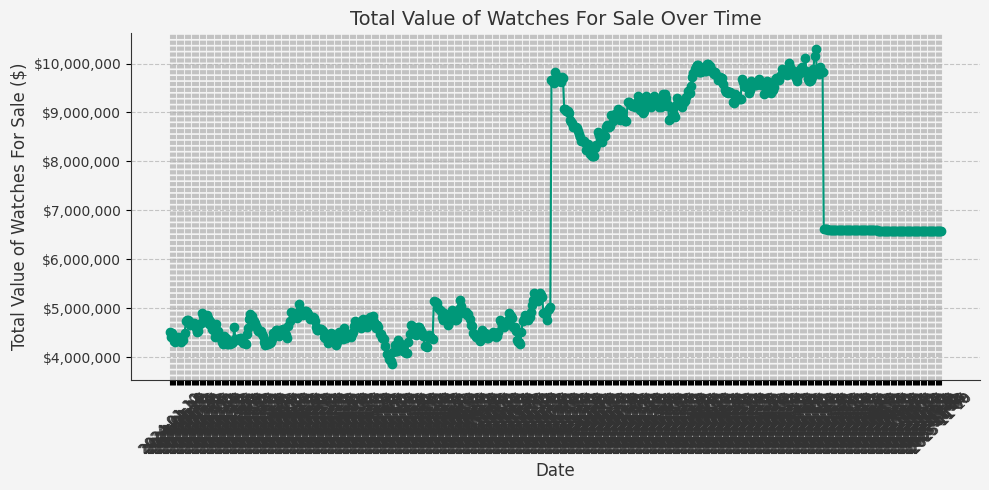
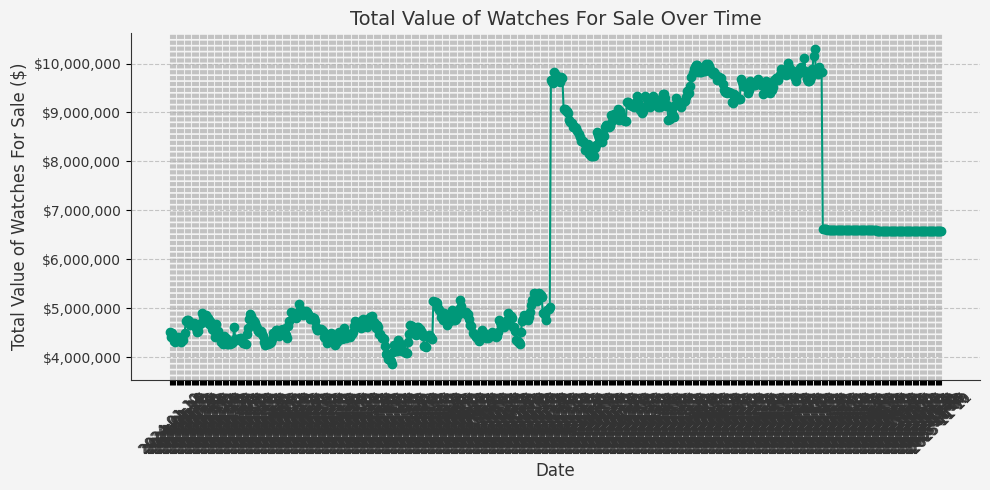
Update docs, portfolio image and portfolio statistics

diff --git a/docs/index.html b/docs/index.html
@@ -54,7 +54,7 @@
     </style>
 </head>
 <body>
-    <h1>Watch Data Report - 2025-11-10</h1>
+    <h1>Watch Data Report - 2025-11-11</h1>
     <div class="stats">
         <h3>Summary Statistics</h3>
         <p>Value of sold Watches: $0.00</p>
@@ -86,24 +86,39 @@
   </thead>
   <tbody>
     <tr>
-      <td>1973 Rolex Red Submariner 1680 Mk V Dial With Service Papers</td>
+      <td>1970 Rolex Two-Tone Gmt-Master 1675 Brown Nipple Dial With Box And Service Papers</td>
       <td>None</td>
-      <td><a href="https://tropicalwatch.com/watches/1973-rolex-red-submariner-1680-mk-v-dial-with-service-papers/jdst" target="_blank">Link</a></td>
+      <td><a href="https://tropicalwatch.com/watches/1970-rolex-two-tone-gmt-master-1675-brown-nipple-dial-with-box-and-service-papers/qj9y" target="_blank">Link</a></td>
     </tr>
     <tr>
-      <td>1969 Rolex Submariner 1680 Mk 2 Tropical Dial</td>
+      <td>1999 Rolex Daytona 16520 Black Dial</td>
       <td>None</td>
-      <td><a href="https://tropicalwatch.com/watches/1969-rolex-submariner-1680-mk-2-tropical-dial/lwdm" target="_blank">Link</a></td>
+      <td><a href="https://tropicalwatch.com/watches/1999-rolex-daytona-16520-black-dial/eskb" target="_blank">Link</a></td>
     </tr>
     <tr>
-      <td>1968 Rolex 18K Yg Oyster Perpetual Grey Dial</td>
+      <td>1972 Rolex 18K Yg Day-Date 1803 Champaign Minute Track Dial With Box & Papers</td>
       <td>None</td>
-      <td><a href="https://tropicalwatch.com/watches/1968-rolex-18k-yg-oyster-perpetual-grey-dial/2unp" target="_blank">Link</a></td>
+      <td><a href="https://tropicalwatch.com/watches/1972-rolex-18k-yg-day-date-1803-champaign-minute-track-dial-with-box-papers/chbj" target="_blank">Link</a></td>
     </tr>
     <tr>
-      <td>2024 Patek Philippe 18K Rg Annual Calendar 5205R Olive Green Dial With Box And Papers</td>
+      <td>1995 Rolex Explorer Ii 16570 White Dial</td>
       <td>None</td>
-      <td><a href="https://tropicalwatch.com/watches/2024-patek-philippe-18k-rg-annual-calendar-5205r-olive-green-dial-with-box-and-papers/puk8" target="_blank">Link</a></td>
+      <td><a href="https://tropicalwatch.com/watches/1995-rolex-explorer-ii-16570-white-dial/wvvc" target="_blank">Link</a></td>
+    </tr>
+    <tr>
+      <td>1978 Rolex Submariner 5513 Pre-Comex Dial With Box And Papers</td>
+      <td>None</td>
+      <td><a href="https://tropicalwatch.com/watches/1978-rolex-submariner-5513-pre-comex-dial-with-box-and-papers/sajt" target="_blank">Link</a></td>
+    </tr>
+    <tr>
+      <td>1971 Rolex Submariner 5512 Luminova Dial With Papers And Service Papers</td>
+      <td>None</td>
+      <td><a href="https://tropicalwatch.com/watches/1971-rolex-submariner-5512-luminova-dial-with-papers-and-service-papers/pafs" target="_blank">Link</a></td>
+    </tr>
+    <tr>
+      <td>1969 Rolex Submariner 1680 Mk 2 Dial</td>
+      <td>None</td>
+      <td><a href="https://tropicalwatch.com/watches/1969-rolex-submariner-1680-mk-2-dial/lwdm" target="_blank">Link</a></td>
     </tr>
   </tbody>
 </table>
